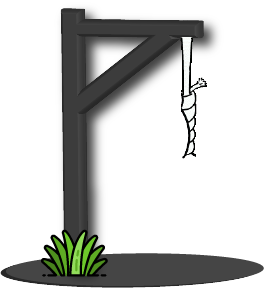
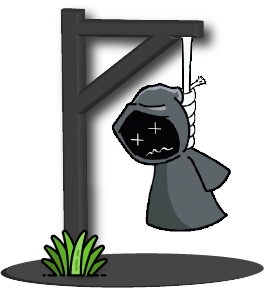
precision js, rename img, css

Changed region(s): [[0.4242, 0.2483, 0.8788, 0.8069], [0.6667, 0.1241, 0.697, 0.2172]]

diff --git a/jeuPendu.html b/jeuPendu.html
@@ -2,37 +2,36 @@
 <html lang="fr">
 	<head>
 		 
-		<meta charset="UTF-8"/>
-		<title>Le jeu du pendu</title>
-		<link type="text/css" rel="stylesheet" href="css/stylependu.css">
-		<meta name="description=" content="Le jeu du pendu en HTML, CSS et JavaScript">
-		<meta name="Keywords" content="code, js, html, css, jeu, pendu, exercice, mot">
-		<meta name="Revisit-After" content="15 days">
-		<meta name="Robots" content="all">
-		<meta name="Geography" content="Vesoul, France">
-		
-    <meta name="Rating" content="general">
-    <meta name="Category" content="games">
-    <meta name="viewport" content="width=device-width, initial-scale=1"> <!--mediaqueries-->
+        <meta charset="UTF-8"/>
+        <title>Le jeu du pendu</title>
+        <link type="text/css" rel="stylesheet" href="css/stylependu.css">
+        <meta name="description=" content="Le jeu du pendu en HTML, CSS et JavaScript">
+        <meta name="Keywords" content="code, js, html, css, jeu, pendu, exercice, mot">
+        <meta name="Revisit-After" content="15 days">
+        <meta name="Robots" content="all">
+        <meta name="Geography" content="Vesoul, France">
+        <meta name="Rating" content="general">
+        <meta name="Category" content="games">
+        <meta name="viewport" content="width=device-width, initial-scale=1"> <!--mediaqueries-->
 
 		<!--fonts-->
 		<link href="https://fonts.googleapis.com/css?family=Love+Ya+Like+A+Sister" rel="stylesheet"> <!--google font - font-family: 'Love Ya Like A Sister', cursive; -->
 		<!--<link rel="stylesheet" href="https://cdnjs.cloudflare.com/ajax/libs/font-awesome/4.7.0/css/font-awesome.css"> <!--FONTAWESOME-->
 
         <!--favicon-->
-    <link rel="icon" href="favicon/favicon.png" type="image/png">
-    <link rel="icon" sizes="32x32" href="favicon/favicon-32.png" type="image/png">
-    <link rel="icon" sizes="64x64" href="favicon/favicon-64.png" type="image/png">
-    <link rel="icon" sizes="96x96" href="favicon/favicon-96.png" type="image/png">
-    <link rel="icon" sizes="196x196" href="favicon/favicon-196.png" type="image/png">
-    <link rel="apple-touch-icon" sizes="152x152" href="favicon/apple-touch-icon.png">
-    <link rel="apple-touch-icon" sizes="60x60" href="favicon/apple-touch-icon-60x60.png">
-    <link rel="apple-touch-icon" sizes="76x76" href="favicon/apple-touch-icon-76x76.png">
-    <link rel="apple-touch-icon" sizes="114x114" href="favicon/apple-touch-icon-114x114.png">
-    <link rel="apple-touch-icon" sizes="120x120" href="favicon/apple-touch-icon-120x120.png">
-    <link rel="apple-touch-icon" sizes="144x144" href="favicon/apple-touch-icon-144x144.png">
-    <meta name="msapplication-TileImage" content="favicon-144.png">
-    <meta name="msapplication-TileColor" content="#FFFFFF">
+        <link rel="icon" href="favicon/favicon.png" type="image/png">
+        <link rel="icon" sizes="32x32" href="favicon/favicon-32.png" type="image/png">
+        <link rel="icon" sizes="64x64" href="favicon/favicon-64.png" type="image/png">
+        <link rel="icon" sizes="96x96" href="favicon/favicon-96.png" type="image/png">
+        <link rel="icon" sizes="196x196" href="favicon/favicon-196.png" type="image/png">
+        <link rel="apple-touch-icon" sizes="152x152" href="favicon/apple-touch-icon.png">
+        <link rel="apple-touch-icon" sizes="60x60" href="favicon/apple-touch-icon-60x60.png">
+        <link rel="apple-touch-icon" sizes="76x76" href="favicon/apple-touch-icon-76x76.png">
+        <link rel="apple-touch-icon" sizes="114x114" href="favicon/apple-touch-icon-114x114.png">
+        <link rel="apple-touch-icon" sizes="120x120" href="favicon/apple-touch-icon-120x120.png">
+        <link rel="apple-touch-icon" sizes="144x144" href="favicon/apple-touch-icon-144x144.png">
+        <meta name="msapplication-TileImage" content="favicon-144.png">
+        <meta name="msapplication-TileColor" content="#FFFFFF">
 		<!--<link rel="icon" href="favicon/animated_favicon.gif" type="image/gif">-->
 		
 		
@@ -49,6 +48,9 @@
                 <p class="regle">Trouve un mot de 7 à 11 lettres...</p>
                 <p class="regle">Tu as droit à 7 erreurs.</p>
                 <p class="regle">Bonne chance, que la force soit avec toi !!!</p>
+            </div>
+            <div class="divCpt">
+               <p class="align">Attention, il te reste <span class="compteur"></span>  chances ...</p>
             </div>
            <div class="contenair">
                 <div class="images">

diff --git a/script.js b/script.js
@@ -10,9 +10,9 @@ var afficheReponse = document.getElementById("solut");
 //var mots = new Array() remplacé par []                                          
 var mots = ["javascript", "bonjour", "decouverte", "youpi", "code", "lexomil", "desespoir", "absurde", "fastidieux", "malchanceux"];
  //nombre de chances//
-var nombrecoup = 7; 
+//var nombrecoup = 6; 
 //depart//                                      
-var coupjouer = 0;  
+var coupjouer = 1;  
 //variable clavier qui selectionne toutes les lettres                                       
 var clavier = document.querySelectorAll(".lettre"); 
 //choix d'un mot dans le tableau//        
@@ -21,8 +21,9 @@ var motMystere = mots[Math.floor(Math.random()*mots.length)];
 var motMystereMaj = motMystere.toUpperCase();
 // recup clavier
 var divBoite = document.querySelector(".reponse");
-
-    
+var cpt = 7;
+var recupCpt = document.querySelector(".compteur");
+var afficheCpt = document.querySelector(".divCpt"); 
 //boucle qui calcul le nbr de lettre dans le mot mystere
 
 for(i=0; i<motMystereMaj.length; i++){ 
@@ -54,7 +55,7 @@ function verifier(){
     // var str vide qui permet de concatener avec les valeurs des input contenu dans boiteL                                      
     var str = "";
     
-    if(coupjouer < nombrecoup){
+    if(coupjouer < cpt){
         var resultat ="";
         for(i=0; i < motMystereMaj.length; i++){
             
@@ -66,32 +67,45 @@ function verifier(){
             str += boiteL[i].value; 
           
         } 
-        //console.log(str);
+            //console.log(str);
     
-        // gagner
+            //GAGNER
         
     if(str == motMystereMaj){
         gagner.classList.remove("cacher");
         afficheReponse.innerHTML = motMystereMaj;
-        
+        clavier[i].classList.remove("click",images);
     }
         
-    //PERDU
+        //PERDU
         
     }else{    
         // enleve la classe cacher et affiche la phrase perdu                                         
         perdu.classList.remove("cacher");  
         // recupere la div reponse html et affiche le mot a trouver            
-        afficheReponse.innerHTML = motMystereMaj;     
+        afficheReponse.innerHTML = motMystereMaj; 
+        gagner.classList.add("cacher");
+        if(cpt = 1){
+            for(i=0; i<clavier.length; i++){
+                clavier[i].removeEventListener("click",verifier);          
+            }
+        }
+        
+        
+        
         
     }
     
     if(state == false){
-        if(coupjouer >= 0 && coupjouer <7){
-            coupjouer++;
+        //if(coupjouer >= 0 && coupjouer <7){
+            //coupjouer++;
             //console.log(coupjouer);
             // changement d'images si on perd
-            images[0].src = "image/pendu"+(coupjouer)+".png";
+            
+            cpt = cpt-1;
+            recupCpt.innerHTML = " "+ cpt +" ";
+            images[0].src = "image/pendu"+(cpt)+".png";
+            afficheCpt.classList.remove("divCpt");
         }
-    }        
+    //}        
 }   

diff --git a/css/stylependu.css b/css/stylependu.css
@@ -60,7 +60,7 @@ h2{
 .regle{
     margin: auto;
     text-align: center;
-    font-size: 25px;
+    font-size: 30px;
     letter-spacing: 2px; 
     width: 50%;  
 }
@@ -73,7 +73,20 @@ h2{
     padding-top: 80px;
 }
 
-   
+.divCpt{
+    display: flex;
+    display: none;
+    
+}  
+.align{
+    text-align: center;
+}
+/*.compteur{
+    width: 40px;
+    height: 40px;
+    /*color: white;*/
+    
+  
 
 #clavier{
     font-size: 60px;
@@ -85,8 +98,8 @@ h2{
 #resultat{
     margin: auto;
     text-align: center;
-    font-size: 30px;
-    width: 40%;
+    font-size: 60px;
+    
     margin-bottom: 50px;
 }
 
@@ -98,6 +111,7 @@ h2{
 
 p{
     margin: auto;
+    font-size: 30px;
     
 }
 a{
@@ -140,14 +154,14 @@ a:hover{
     font-weight: bold; 
 }
 
-.gagner{
-    font-size: 40px;
-}
+
 
 /*media queries ordi */
 @media screen and (min-width: 993px) and (max-width: 1200px) and (orientation: landscape){
 
-
+h2{
+    font-size: 35px;
+}
 
 
 
